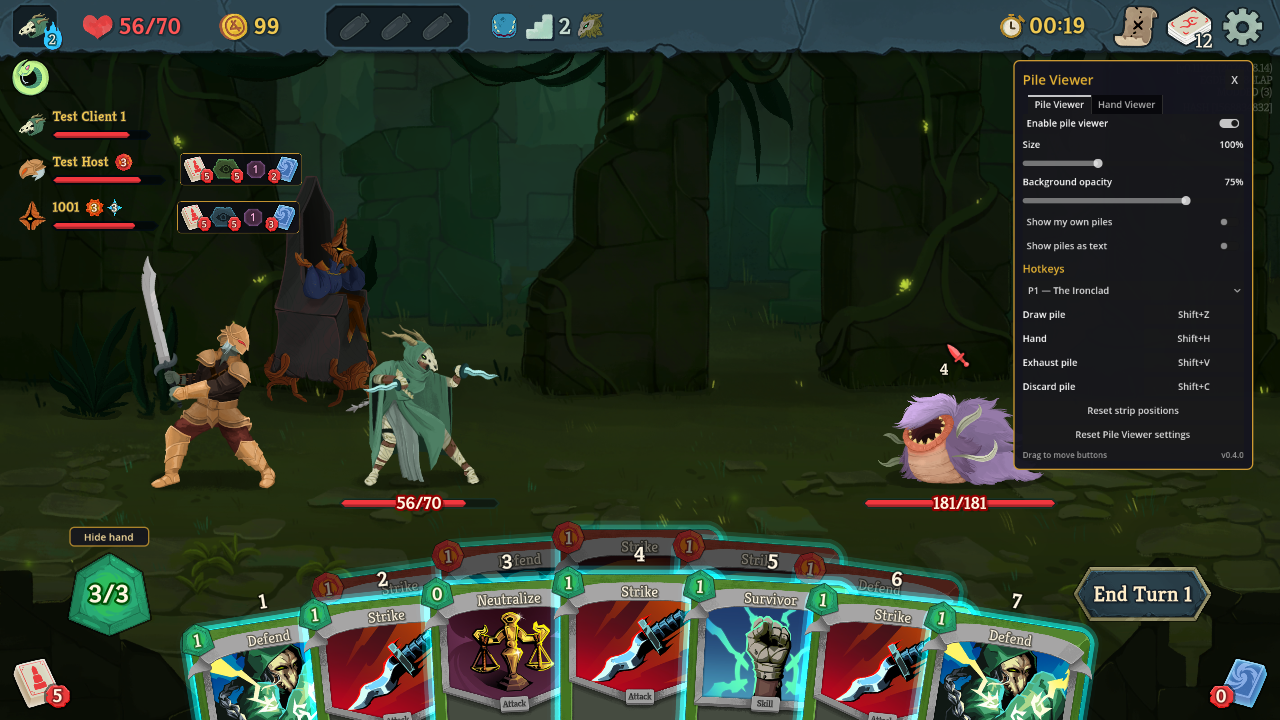
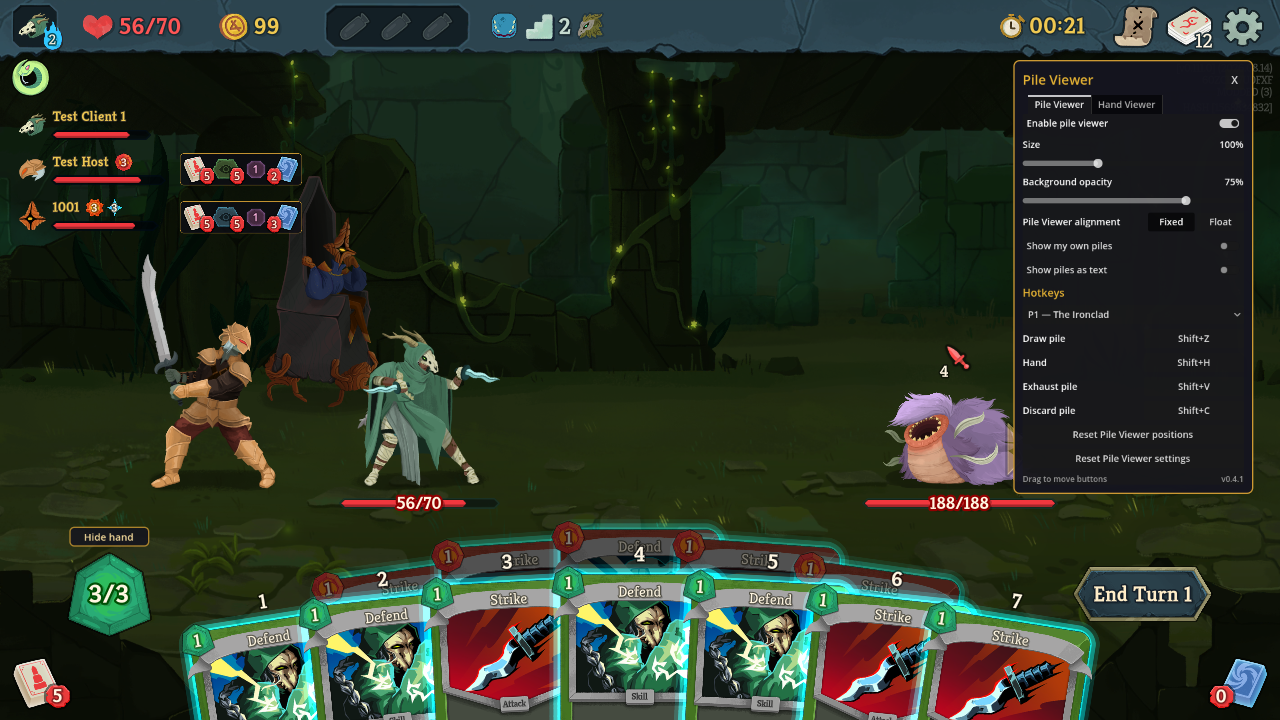
Line Fixed Pile Viewers up in a column, lower Float, 3 slots without the Hand Viewer, bigger badges
- Fixed: left edge at least halfway through the 4th relic slot (never left of
  a starting character's name block, i.e. an 80-max-HP health bar, + padding),
  pushed right by long names / health bars grown with max HP; a drag offset
  moves this cap
- Float: one Pile Viewer lower (its top at the old anchor)
- Hand Viewer off: the Pile Viewer shrinks back to 3 slots (containers don't
  shrink by themselves - ResetSize)
- Draw / hand / discard count badges 15% bigger (visible circle measured from
  the texture's opaque pixels, capped at half the icon width: 24.4 -> 28)
- Screenshots retaken; change note; tests for each

diff --git a/src/PileViewer.cs b/src/PileViewer.cs
@@ -45,7 +45,7 @@ public static partial class PileViewer
 
     // Relative to the creature node's origin. BetterSpire2's incoming-damage label sits at (10, -320);
     // the strip's bottom-center goes above that.
-    // Float alignment: the default spot above the character (bottom-centre of the Pile Viewer).
+    // Float alignment: the default spot above the character (top-centre of the Pile Viewer).
     private static readonly Vector2 FloatAnchor = new(0f, -350f);
 
     // Gap between a player's name block in the top-left player list and their Pile Viewer.
@@ -274,6 +274,38 @@ public static partial class PileViewer
         return new Rect2(rowRect.Position, new Vector2(right - rowRect.Position.X, rowRect.Size.Y));
     }
 
+    /// <summary>
+    /// Default left edge for Fixed Pile Viewers (screen x): halfway through the 4th relic slot of your relic bar,
+    /// measured from its first slot and spacing (so it doesn't depend on how many relics you have), but not left of a
+    /// starting character's name block plus padding.
+    /// </summary>
+    internal static float FixedOriginCap()
+    {
+        float cap = 0f;
+        var relics = NRun.Instance?.GlobalUi?.RelicInventory;
+        if (relics != null && relics.RelicNodes.Count > 0)
+        {
+            Rect2 first = ScreenRect(relics.RelicNodes[0]);
+            float step = first.Size.X + relics.GetThemeConstant("h_separation") * relics.GetGlobalTransformWithCanvas().Scale.X;
+            cap = first.Position.X + 3.5f * step;
+        }
+        // Never left of where a starting character's name block ends (health bar at 80 max HP, the most any
+        // character starts with, + the game's 6-unit margin) plus padding — otherwise starting rows wouldn't line up.
+        if (PlayerRowAny() is { } row && row.GetNodeOrNull<NHealthBar>("%HealthBar")?.HpBarContainer is Control bar)
+        {
+            Rect2 barRect = ScreenRect(bar);
+            float scale = row.GetGlobalTransformWithCanvas().Scale.X;
+            cap = Mathf.Max(cap, barRect.Position.X + (StartingBarWidth + 6f + RowGap) * scale);
+        }
+        return cap;
+    }
+
+    // Width the game gives a health bar at 80 max HP (UpdateWidthRelativeToReferenceValue(80, 175)).
+    private const float StartingBarWidth = 175f;
+
+    private static NMultiplayerPlayerState? PlayerRowAny() =>
+        NRun.Instance?.GlobalUi?.MultiplayerPlayerContainer?.GetChildren().OfType<NMultiplayerPlayerState>().FirstOrDefault();
+
     /// <summary>A control's rect on screen (it and the player list can be on different canvas layers).</summary>
     internal static Rect2 ScreenRect(Control control)
     {
@@ -302,7 +334,11 @@ public static partial class PileViewer
         {
             if (StripSlots[i] == PileType.Hand && widget.Buttons[i] is Button handButton)
             {
-                handButton.Visible = Settings.HandViewerEnabled;
+                if (handButton.Visible != Settings.HandViewerEnabled)
+                {
+                    handButton.Visible = Settings.HandViewerEnabled;
+                    widget.Root.ResetSize(); // containers don't shrink by themselves
+                }
                 // Highlight the Hand slot whose hand is being shown (on your own strip: while your hand is shown).
                 bool viewing = widget.Player.NetId == (RunManager.Instance?.NetService?.NetId ?? 0)
                     ? !HandViewer.HideOwnHand
@@ -337,15 +373,18 @@ public static partial class PileViewer
         {
             // Float: centred above the character (moves with it), plus the player's drag offset.
             widget.Root.GlobalPosition = creature!.GlobalPosition + FloatAnchor + Settings.GetOffset(widget.Player.NetId)
-                - new Vector2(size.X / 2f, size.Y);
+                - new Vector2(size.X / 2f, 0f);
         }
         else
         {
-            // Fixed: right after the player's name block in the player list (fixed to the UI), plus the drag offset.
-            // Anchored at the centre of its left edge, so resizing keeps that point in place.
+            // Fixed: left edge at the cap (halfway through the 4th relic, so short names still give a left-aligned
+            // column) or right after the player's name block if that's further right (long names, health bars that
+            // grow with max HP). A drag offset moves the cap; the name block still pushes. Anchored at the centre of
+            // its left edge, so resizing keeps that point in place.
             Rect2 block = NameBlockRect(row!);
-            Vector2 onScreen = new Vector2(block.End.X + RowGap, block.GetCenter().Y - size.Y / 2f)
-                + Settings.GetOffset(widget.Player.NetId);
+            Vector2 offset = Settings.GetOffset(widget.Player.NetId);
+            Vector2 onScreen = new Vector2(Mathf.Max(FixedOriginCap() + offset.X, block.End.X + RowGap),
+                block.GetCenter().Y - size.Y / 2f + offset.Y);
             widget.Root.GlobalPosition = widget.Root.GetCanvasTransform().AffineInverse() * onScreen;
         }
 
@@ -725,7 +764,7 @@ public static partial class PileViewer
         return native;
     }
 
-    private readonly record struct BadgeStyle(Texture2D? Texture, Vector2 Position, Vector2 Size, Color Tint,
+    internal readonly record struct BadgeStyle(Texture2D? Texture, Vector2 Position, Vector2 Size, Color Tint,
         Color TextColor, Color OutlineColor, int OutlineSize, int FontSize);
 
     /// <summary>
@@ -734,7 +773,50 @@ public static partial class PileViewer
     /// badge in a corner; exhaust has no badge and centers a purple-outlined number on the icon.
     /// Falls back to a bottom-right badge.
     /// </summary>
-    private static BadgeStyle GetBadgeStyle(NCombatRoom room, PileType pileType)
+    // Badges with a background circle (draw, hand, discard) are drawn this much bigger than the game's, about their
+    // centre, but the visible circle never wider than half the slot's icon.
+    private const float BadgeGrowth = 1.25f;
+
+    private static readonly Dictionary<Texture2D, float> _visibleFraction = new();
+
+    /// <summary>Visible circle diameter of a badge: its texture has a transparent margin around the circle.</summary>
+    internal static float BadgeCircle(BadgeStyle style)
+    {
+        if (style.Texture is not Texture2D tex) return style.Size.X;
+        if (!_visibleFraction.TryGetValue(tex, out float fraction))
+        {
+            // Width of the solid circle across the middle row (alpha >= 0.9), ignoring the soft shadow around it.
+            fraction = 1f;
+            if (tex.GetImage() is Image image && image.GetWidth() > 0)
+            {
+                if (image.IsCompressed()) image.Decompress();
+                int y = image.GetHeight() / 2, first = -1, last = -1;
+                for (int x = 0; x < image.GetWidth(); x++)
+                {
+                    if (image.GetPixel(x, y).A < 0.9f) continue;
+                    if (first < 0) first = x;
+                    last = x;
+                }
+                if (first >= 0) fraction = (last - first + 1) / (float)image.GetWidth();
+            }
+            _visibleFraction[tex] = fraction;
+        }
+        return style.Size.X * fraction;
+    }
+
+    private static BadgeStyle Enlarged(BadgeStyle style)
+    {
+        if (style.Texture == null) return style; // exhaust: a plain number over the icon
+        float circle = BadgeCircle(style);
+        float grow = Mathf.Min(BadgeGrowth, SlotSize / 2f / circle);
+        if (grow <= 1f) return style;
+        Vector2 size = style.Size * grow;
+        Vector2 position = style.Position - (size - style.Size) / 2f;
+        return style with { Position = position, Size = size, FontSize = (int)Math.Round(style.FontSize * grow),
+            OutlineSize = Math.Max(1, (int)Math.Round(style.OutlineSize * grow)) };
+    }
+
+    private static BadgeStyle GetBadgeStyle(NCombatRoom room, PileType pileType, bool enlarge = true)
     {
         const float fallbackSize = 26f;
         var fallback = new BadgeStyle(LoadTexture(BadgeTexturePath),
@@ -762,7 +844,8 @@ public static partial class PileViewer
                 label.GetThemeColor("font_outline_color"),
                 Math.Max(1, (int)Math.Round(label.GetThemeConstant("outline_size") * k)),
                 Math.Max(9, (int)Math.Round(label.GetThemeFontSize("font_size") * k)));
-            if (_loggedBadges.Add(pileType)) ModLog.Info($"PileViewer: {pileType} badge {style} (k={k})");
+            if (enlarge) style = Enlarged(style);
+            if (enlarge && _loggedBadges.Add(pileType)) ModLog.Info($"PileViewer: {pileType} badge {style} (k={k}, circle {BadgeCircle(style):0.#})");
             return style;
         }
         catch (Exception ex)

diff --git a/src/AutoTest.cs b/src/AutoTest.cs
@@ -533,10 +533,15 @@ public static class AutoTest
         Check("a Pile Viewer for every teammate", teammates.All(t => PileViewer.StripCounts(t.player.NetId) != null), PileViewer.DescribeState());
         if (PileViewer.StripAndRow(MutatorId) is { } placed)
         {
-            Check("Pile Viewer sits next to the teammate's name", placed.Strip.Position.X >= placed.Row.End.X
-                && Mathf.Abs(placed.Strip.GetCenter().Y - placed.Row.GetCenter().Y) < 12f && placed.Strip.Position.X - placed.Row.End.X < 20f
-                && placed.Strip.Size.Y <= placed.Row.Size.Y,
-                $"strip {placed.Strip}, row {placed.Row}");
+            foreach (var (_, other) in teammates)
+            {
+                if (PileViewer.StripAndRow(other.NetId) is not { } p) continue;
+                float expectedX = PileViewer.ExpectedFixedX(other.NetId);
+                Check($"P{other.NetId}'s Pile Viewer at its default spot (cap or after the name)", p.Strip.Position.X >= p.Row.End.X
+                    && Mathf.Abs(p.Strip.Position.X - expectedX) < 1.5f && Mathf.Abs(p.Strip.GetCenter().Y - p.Row.GetCenter().Y) < 12f
+                    && p.Strip.Size.Y <= p.Row.Size.Y,
+                    $"Pile Viewer {p.Strip}, name block {p.Row}, cap {PileViewer.FixedOriginCap():0}, expected x {expectedX:0}");
+            }
             await Mouse(placed.Strip.GetCenter(), null);
             await Wait(0.1);
             Check("hovering a Pile Viewer lights that teammate's frame", PileViewer.RowHighlighted(MutatorId));
@@ -546,9 +551,9 @@ public static class AutoTest
             if (PileViewer.StripAndRow(MutatorId) is { } grown)
             {
                 float bar = PileViewer.HealthBarEnd(MutatorId);
-                Check("a longer health bar (more max HP) moves the Pile Viewer right", mutator.Creature.MaxHp >= 110
-                    && grown.Strip.Position.X > bar && grown.Strip.Position.X - bar < 30f,
-                    $"max HP {mutator.Creature.MaxHp}, health bar ends {bar:0}, Pile Viewer starts {grown.Strip.Position.X:0}");
+                Check("a longer health bar (more max HP) pushes the Pile Viewer right of the cap", mutator.Creature.MaxHp >= 110
+                    && grown.Strip.Position.X > bar && grown.Strip.Position.X - bar < 30f && grown.Strip.Position.X > PileViewer.FixedOriginCap() + 1f,
+                    $"max HP {mutator.Creature.MaxHp}, health bar ends {bar:0}, cap {PileViewer.FixedOriginCap():0}, Pile Viewer starts {grown.Strip.Position.X:0}");
             }
             await Mouse(new Vector2(960f, 300f), null);
             await Wait(0.1);
@@ -611,10 +616,22 @@ public static class AutoTest
         await Wait(0.1);
         if (PileViewer.StripAndRow(MutatorId) is { } fixedAgain)
         {
-            Check("Fixed alignment: back next to the name", Settings.Alignment == Settings.PileViewerAlignment.Fixed
-                && fixedAgain.Strip.Position.X >= fixedAgain.Row.End.X && fixedAgain.Strip.Position.X - fixedAgain.Row.End.X < 20f,
+            Check("Fixed alignment: back at its default spot", Settings.Alignment == Settings.PileViewerAlignment.Fixed
+                && Mathf.Abs(fixedAgain.Strip.Position.X - PileViewer.ExpectedFixedX(MutatorId)) < 1.5f,
                 $"Pile Viewer {fixedAgain.Strip}, name block {fixedAgain.Row}");
         }
+        // Hand Viewer off: no Hand slot, so the Pile Viewer is back to 3 slots wide.
+        float withHand = PileViewer.StripAndRow(MutatorId)?.Strip.Size.X ?? 0f;
+        SettingsMenu.HandViewerToggle!.ButtonPressed = false;
+        await Wait(0.2);
+        float withoutHand = PileViewer.StripAndRow(MutatorId)?.Strip.Size.X ?? 0f;
+        Check("Hand Viewer off: the Pile Viewer shrinks to 3 slots", withoutHand > 0f && withoutHand < withHand * 0.85f,
+            $"width {withHand:0} → {withoutHand:0}");
+        SettingsMenu.HandViewerToggle.ButtonPressed = true;
+        await Wait(0.2);
+        var (nativeCircle, ourCircle) = PileViewer.BadgeCircles(PileType.Draw);
+        Check("bigger number badges, at most half the icon wide", ourCircle > nativeCircle * 1.1f && ourCircle <= PileViewer.SlotIconWidth / 2f + 0.01f,
+            $"badge circle {nativeCircle:0.#} → {ourCircle:0.#} (icon {PileViewer.SlotIconWidth})");
         SettingsMenu.EnabledToggle!.ButtonPressed = false;
         await Wait(0.2);
         Check("Pile Viewer off hides them but keeps the hand", PileViewer.StripCounts(MutatorId) == null && HandViewer.ShownCards().Count > 0);

diff --git a/src/PileViewer.Testing.cs b/src/PileViewer.Testing.cs
@@ -53,6 +53,20 @@ public static partial class PileViewer
         _widgets.TryGetValue(netId, out var w) && PlayerRow(w.Player) is { } row
         && row.GetChildren().Any(c => c is MegaCrit.Sts2.Core.Nodes.Relics.NRelic || c.GetType().Name == "NDeckHistoryEntry");
 
+    /// <summary>Where a Fixed Pile Viewer's left edge should be: the cap (+ drag offset) or after the name block (auto-test).</summary>
+    internal static float ExpectedFixedX(ulong netId) =>
+        _widgets.TryGetValue(netId, out var w) && PlayerRow(w.Player) is { } row
+            ? Mathf.Max(FixedOriginCap() + Settings.GetOffset(netId).X, NameBlockRect(row).End.X + RowGap) : float.NaN;
+
+    /// <summary>Visible circle diameter of the game's own badge and of ours for a slot (auto-test).</summary>
+    internal static (float Native, float Ours) BadgeCircles(PileType pileType)
+    {
+        if (NCombatRoom.Instance is not NCombatRoom room) return (float.NaN, float.NaN);
+        return (BadgeCircle(GetBadgeStyle(room, pileType, enlarge: false)), BadgeCircle(GetBadgeStyle(room, pileType)));
+    }
+
+    internal static float SlotIconWidth => SlotSize;
+
     /// <summary>On-screen position of a player's character (auto-test).</summary>
     internal static Vector2? CreatureScreenPos(ulong netId) =>
         _widgets.TryGetValue(netId, out var w) && NCombatRoom.Instance?.GetCreatureNode(w.Player.Creature) is { } c
